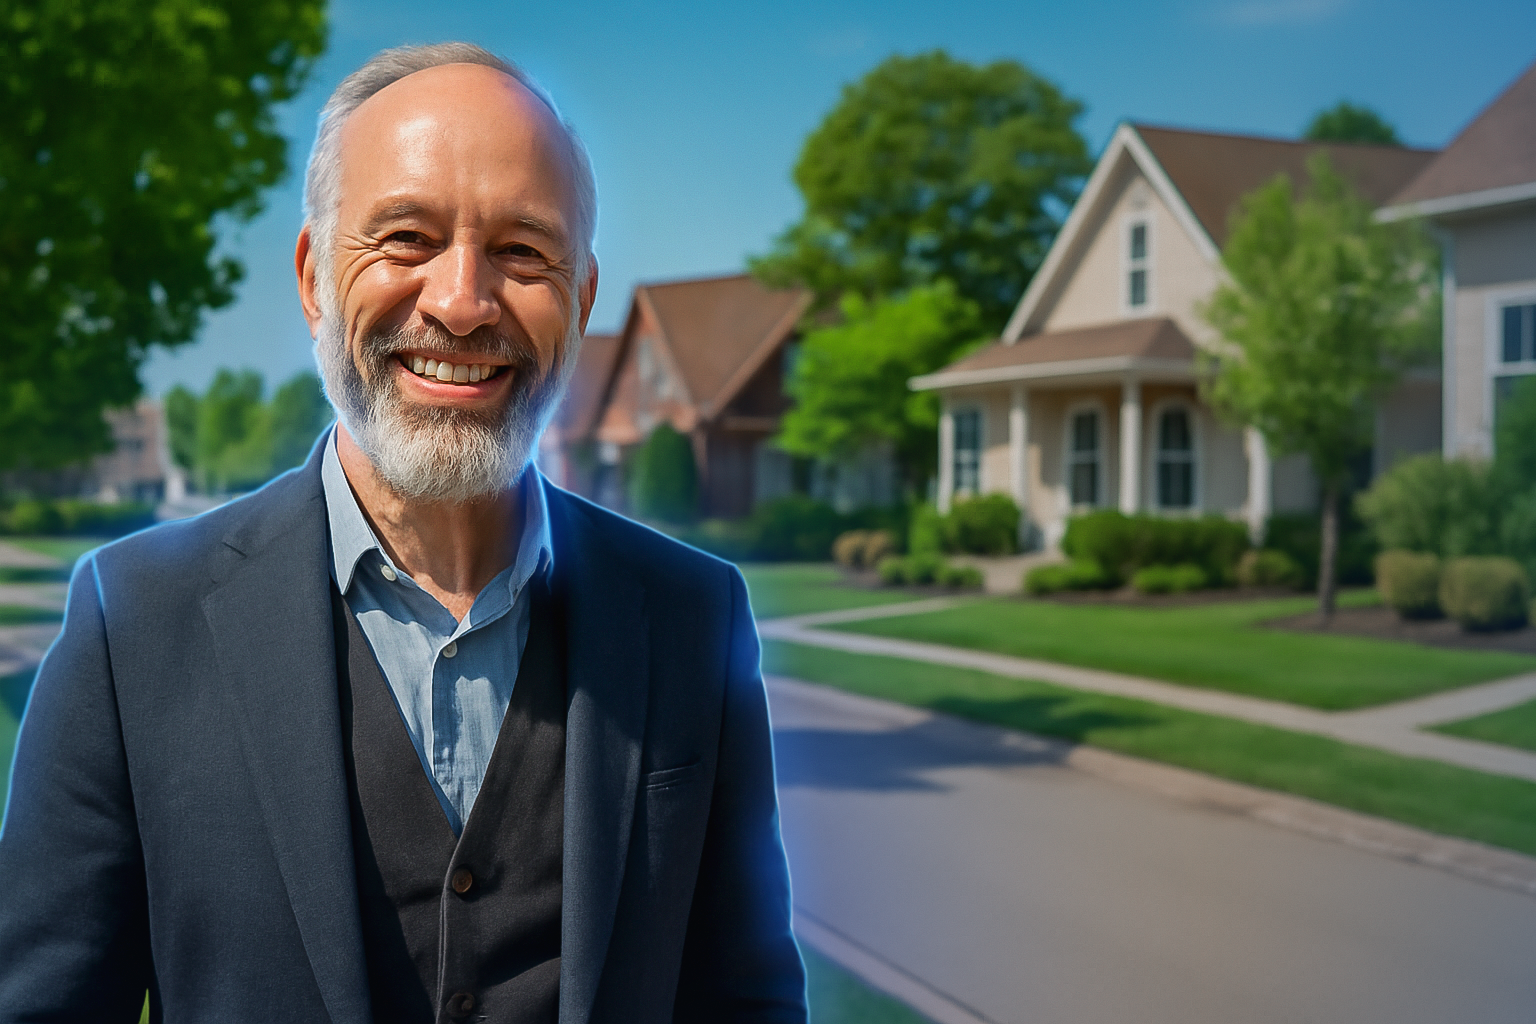
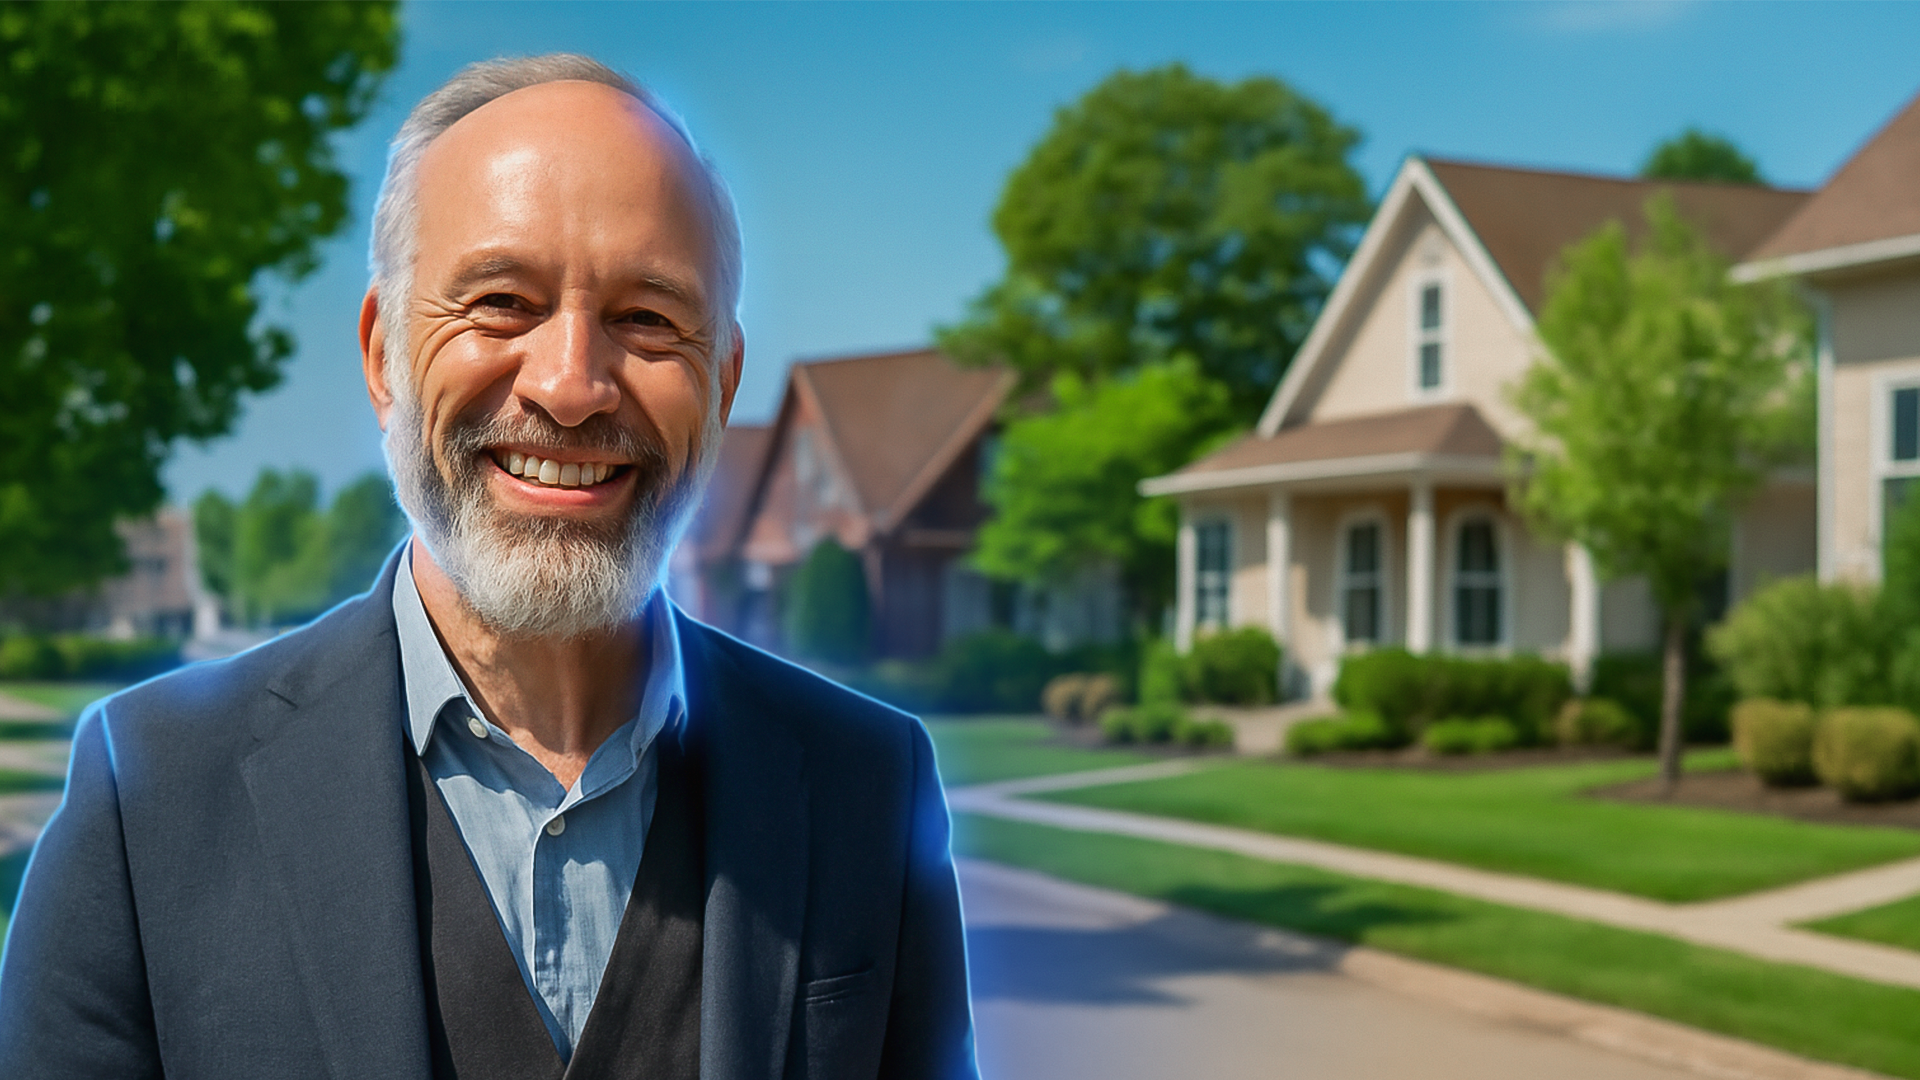
mobile 184

diff --git a/index.html b/index.html
@@ -201,11 +201,10 @@
     <div id="page-home" class="page-container active">
         <main>
             <!-- Hero e Simulador -->
-         <section id="hero-section" class="text-white py-16 sm:py-24">
-    <!-- Adicionei um container para garantir que o conteúdo fique sobre as camadas do banner -->
-    <div class="container mx-auto px-4 grid lg:grid-cols-2 gap-12 items-center">
+         <section id="hero-section" class="hero-bg text-white py-16 sm:py-24" style="transition: background-image 1s ease-in-out;">
+    <div class="container mx-auto px-4 grid lg:grid-cols-2 gap-12 items-center relative z-10">
         <div class="text-center lg:text-left">
-            <!-- IDs para controle via JS -->
+            <!-- Adicionados IDs para controle via JS -->
             <h1 id="hero-title" class="text-4xl md:text-5xl font-extrabold mb-4 leading-tight"></h1>
             <p id="hero-subtitle" class="text-lg md:text-xl text-gray-300 max-w-xl lg:max-w-none"></p>
         </div>
@@ -2037,60 +2036,54 @@ if (whatsappInput) {
     const subtitleEl = document.getElementById('hero-subtitle');
 
     let currentSlideIndex = 0;
-    let isBeforeVisible = false; // Rastreia qual camada do banner está visível
+    
 
     function changeSlide() {
-        const nextSlideIndex = (currentSlideIndex + 1) % slides.length;
-        const nextSlide = slides[nextSlideIndex];
+        // Próximo slide (em loop)
+        currentSlideIndex = (currentSlideIndex + 1) % slides.length;
+        const nextSlide = slides[currentSlideIndex];
 
         // 1. Animação de saída para os textos
         titleEl.style.opacity = '0';
         subtitleEl.style.opacity = '0';
-
-        // 2. Lógica de transição cruzada (cross-fade) para o banner
-        if (!isBeforeVisible) {
-            // Prepara a camada ::before com a próxima imagem
-            heroSection.style.setProperty('--before-bg-image', `linear-gradient(rgba(0,0,0,0.6), rgba(0,0,0,0.6)), url('${nextSlide.image}')`);
-            // Inicia a transição fazendo a camada ::before aparecer
-            heroSection.classList.add('fade-in-before');
-        } else {
-            // Define a imagem principal do banner para a próxima imagem
-            heroSection.style.backgroundImage = `linear-gradient(rgba(0,0,0,0.6), rgba(0,0,0,0.6)), url('${nextSlide.image}')`;
-            // Inicia a transição fazendo a camada ::before desaparecer
-            heroSection.classList.remove('fade-in-before');
-        }
-        isBeforeVisible = !isBeforeVisible; // Alterna a camada ativa
-        currentSlideIndex = nextSlideIndex; // Atualiza o índice
-
-        // 3. Espera um pouco e atualiza os textos com animação de entrada
+        
+        // 2. Espera a animação de saída terminar (600ms)
         setTimeout(() => {
+            // 3. Troca a imagem de fundo e o TÍTULO
+            heroSection.style.backgroundImage = `linear-gradient(rgba(0,0,0,0.6), rgba(0,0,0,0.6)), url('${nextSlide.image}')`;
+           
+            
             titleEl.textContent = nextSlide.title;
-            subtitleEl.textContent = nextSlide.subtitle;
+            
+            // 4. Animação de entrada para o TÍTULO
             titleEl.style.opacity = '1';
 
-            
+            // 5. Espera um pouco antes de mostrar o subtítulo para criar a transição sequencial
             setTimeout(() => {
-
+                // 6. Troca e mostra o SUBTÍTULO
+                subtitleEl.textContent = nextSlide.subtitle;
                 subtitleEl.style.opacity = '1';
-            }, 500); // Atraso para o subtítulo aparecer depois do título
-        }, 600); // Atraso para a troca de texto começar
+            }, 500); // Atraso de 500ms para o subtítulo aparecer
+
+        }, 600); // Tempo para a animação de saída dos textos
     }
 
     // --- Configuração Inicial ---
     function initializeCarousel() {
         if (!heroSection || !titleEl || !subtitleEl) return;
 
-        // Adiciona transições de opacidade para os textos via JS
+        // Adiciona transições CSS via JS para um controle mais limpo da animação de fade
         titleEl.style.transition = 'opacity 0.5s ease-in-out';
         subtitleEl.style.transition = 'opacity 0.5s ease-in-out';
 
-        // Define o conteúdo e banner iniciais
+        // Define o conteúdo inicial do primeiro slide
         const initialSlide = slides[0];
         heroSection.style.backgroundImage = `linear-gradient(rgba(0,0,0,0.6), rgba(0,0,0,0.6)), url('${initialSlide.image}')`;
         titleEl.textContent = initialSlide.title;
         subtitleEl.textContent = initialSlide.subtitle;
         
-    
+        
+
         // Inicia o temporizador para a troca de slides
         setInterval(changeSlide, 6000); // Troca a cada 6 segundos
     }
@@ -2100,11 +2093,13 @@ if (whatsappInput) {
 
 </script>
 
+
+
+
+
+
 </body>
+
+
+
 </html>
-
-
-
-
-
-
